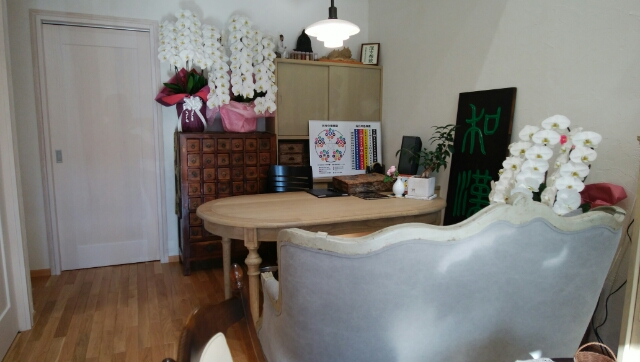
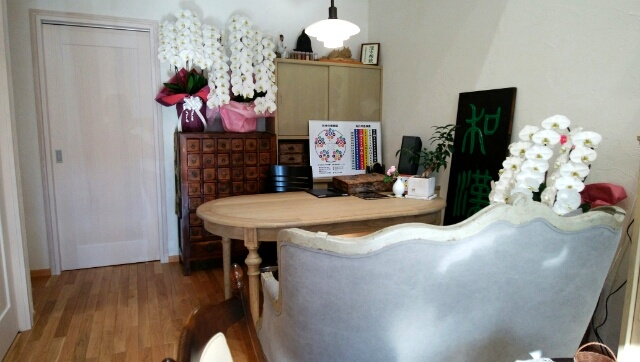
Add files via upload

diff --git a/access.html b/access.html
@@ -4,13 +4,13 @@
 <meta charset="utf-8">
 <meta name="viewport" content="width=device-width,initial-scale=1">
 <title>店舗・アクセス｜クローバー薬房 秋田市中通</title>
-<meta name="description" content="クローバー薬房は秋田県秋田市中通4丁目17-31。営業時間は月〜金9:30〜18:30、土9:30〜17:00。日曜・祝日休業、店頭駐車場2台です。">
+<meta name="description" content="クローバー薬房は秋田県秋田市中通4丁目17-31。営業時間は月〜金9:30〜18:30、土9:30〜17:00。日曜・祝日休業、店頭駐車場は最大2台です。">
 <link rel="canonical" href="https://clover-yakubou-akita.github.io/access.html">
 <meta property="og:type" content="website">
 <meta property="og:locale" content="ja_JP">
 <meta property="og:site_name" content="クローバー薬房">
 <meta property="og:title" content="店舗・アクセス｜クローバー薬房 秋田市中通">
-<meta property="og:description" content="クローバー薬房は秋田県秋田市中通4丁目17-31。営業時間は月〜金9:30〜18:30、土9:30〜17:00。日曜・祝日休業、店頭駐車場2台です。">
+<meta property="og:description" content="クローバー薬房は秋田県秋田市中通4丁目17-31。営業時間は月〜金9:30〜18:30、土9:30〜17:00。日曜・祝日休業、店頭駐車場は最大2台です。">
 <meta property="og:url" content="https://clover-yakubou-akita.github.io/access.html">
 <meta property="og:image" content="https://clover-yakubou-akita.github.io/storefront.jpg">
 
@@ -20,7 +20,7 @@
 <body>
 <header>
   <div class="container nav">
-    <a class="brand" href="index.html"><img src="logo-brush.jpg" alt="クローバー薬房 ロゴ"><span>秋田市の漢方相談薬局</span></a>
+    <a class="brand" href="index.html"><img src="logo-brush.jpg" alt="クローバー薬房 ロゴ"><span>秋田の漢方相談薬局</span></a>
     <nav>
       <a href="first.html">初めての方へ</a>
       <a href="consultation.html">漢方相談</a>
@@ -42,7 +42,7 @@
       <tr><th>電話</th><td><a href="tel:0188333211">018-833-3211</a></td></tr>
       <tr><th>営業時間</th><td>月〜金 9:30〜18:30<br>土 9:30〜17:00</td></tr>
       <tr><th>定休日</th><td>日曜・祝日</td></tr>
-      <tr><th>駐車場</th><td>店頭2台</td></tr>
+      <tr><th>駐車場</th><td>店頭最大2台</td></tr>
       <tr><th>漢方相談</th><td>予約優先</td></tr>
     </table>
     <div class="button-row"><a class="btn" target="_blank" rel="noopener" href="https://www.google.com/maps/search/?api=1&query=%E7%A7%8B%E7%94%B0%E7%9C%8C%E7%A7%8B%E7%94%B0%E5%B8%82%E4%B8%AD%E9%80%9A4%E4%B8%81%E7%9B%AE17-31">Googleマップで見る</a><a class="btn secondary" href="mailto:cloveryakubou@ace.ocn.ne.jp">メールで問い合わせる</a></div>

diff --git a/index.html b/index.html
@@ -40,7 +40,7 @@
       <p class="flyer-lead">冷え・疲れ・眠り・胃腸・便秘・がん・女性特有のお悩みなど、どうぞお気軽にお聞かせください。</p>
       <div class="flyer-grid">
         <div class="flyer-box"><strong>予約優先</strong><span>じっくりご相談いただけます</span></div>
-        <div class="flyer-box"><strong>駐車場</strong><span>店頭2台</span></div>
+        <div class="flyer-box"><strong>駐車場</strong><span>店頭最大2台</span></div>
         <div class="flyer-box"><strong>営業時間</strong><span>月〜金 9:30〜18:30 / 土 9:30〜17:00</span></div>
         <div class="flyer-box"><strong>定休日</strong><span>日曜・祝日</span></div>
       </div>
@@ -76,7 +76,7 @@
     <div class="keylist">
       <div class="keyitem"><strong>営業時間</strong><span>月〜金 9:30〜18:30<br>土 9:30〜17:00</span></div>
       <div class="keyitem"><strong>定休日</strong><span>日曜・祝日</span></div>
-      <div class="keyitem"><strong>駐車場</strong><span>店頭2台</span></div>
+      <div class="keyitem"><strong>駐車場</strong><span>店頭最大2台</span></div>
       <div class="keyitem"><strong>メール</strong><span><a href="mailto:cloveryakubou@ace.ocn.ne.jp">cloveryakubou@ace.ocn.ne.jp</a></span></div>
       <div class="keyitem instagram-keyitem"><strong>Instagram</strong><span><a class="instagram-entry" href="https://www.instagram.com/cloveryakubou/" target="_blank" rel="noopener"><svg class="instagram-icon" viewBox="0 0 24 24" aria-hidden="true"><rect x="3" y="3" width="18" height="18" rx="5" ry="5" fill="none" stroke="currentColor" stroke-width="2"/><circle cx="12" cy="12" r="4.2" fill="none" stroke="currentColor" stroke-width="2"/><circle cx="17.4" cy="6.7" r="1.2" fill="currentColor"/></svg><span>@cloveryakubou</span></a></span></div>
     </div>

diff --git a/faq.html b/faq.html
@@ -20,7 +20,7 @@
 
 <header>
   <div class="container nav">
-    <a class="brand" href="index.html"><img src="logo-brush.jpg" alt="クローバー薬房 ロゴ"><span>秋田市の漢方相談薬局</span></a>
+    <a class="brand" href="index.html"><img src="logo-brush.jpg" alt="クローバー薬房 ロゴ"><span>秋田の漢方相談薬局</span></a>
     <nav>
       <a href="first.html">初めての方へ</a>
       <a href="consultation.html">漢方相談</a>
@@ -52,7 +52,7 @@
 <details><summary>漢方薬と自然薬について相談できますか？</summary><p>はい。現在の状態や体質、生活習慣などを伺いながら、お一人おひとりに合った漢方薬・自然薬について一緒に考えていきます。</p></details>
 <details><summary>季節によって体調が変わる場合も相談できますか？</summary><p>はい。季節の変化と体調の関係についても、日々の過ごし方や生活の様子を伺いながら考えます。</p></details>
 <details><summary>営業時間と定休日を教えてください。</summary><p>営業時間は月〜金 9:30〜18:30、土 9:30〜17:00です。定休日は日曜・祝日です。</p></details>
-<details><summary>駐車場はありますか？</summary><p>はい。店頭に2台分ございます。</p></details>
+<details><summary>駐車場はありますか？</summary><p>はい。はい。店頭に最大2台分ございます。</p></details>
 </div></section></main>
 
 
@@ -191,7 +191,7 @@
       "name": "駐車場はありますか？",
       "acceptedAnswer": {
         "@type": "Answer",
-        "text": "はい。店頭に2台分ございます。"
+        "text": "はい。はい。店頭に最大2台分ございます。"
       }
     }
   ]

diff --git a/style-v11.css b/style-v11.css
@@ -646,3 +646,51 @@ body{
   .sleep-sticky-cta{position:fixed;left:0;right:0;bottom:0;z-index:70;display:grid;grid-template-columns:1fr 1fr;background:#fff;box-shadow:0 -10px 28px rgba(49,67,55,.14);padding:9px 10px calc(9px + env(safe-area-inset-bottom))}.sleep-sticky-cta a{display:flex;align-items:center;justify-content:center;padding:11px 8px;font-size:.87rem;font-weight:900;color:#3f614e}.sleep-sticky-cta .sticky-reserve{background:#49685b;color:#fff;border-radius:999px}
   .sleep-stress-flow{justify-content:center}.sleep-stress-flow b{display:none}
 }
+
+
+/* v23: constitution page mobile overlap visual refinement */
+@media(max-width:700px){
+  .overlap-panel{
+    gap:22px;
+  }
+  .overlap-visual{
+    min-height:290px;
+    max-width:320px;
+    width:100%;
+    margin:8px auto 0;
+  }
+  .overlap-visual span,
+  .overlap-visual strong{
+    display:flex;
+    align-items:center;
+    justify-content:center;
+    text-align:center;
+  }
+  .overlap-visual span{
+    width:124px;
+    height:124px;
+    font-size:1rem;
+    line-height:1.25;
+  }
+  .overlap-visual span:nth-child(1){
+    left:6px;
+    top:4px;
+  }
+  .overlap-visual span:nth-child(2){
+    right:6px;
+    top:14px;
+  }
+  .overlap-visual span:nth-child(3){
+    left:50%;
+    bottom:2px;
+    transform:translateX(-50%);
+  }
+  .overlap-visual strong{
+    width:88px;
+    height:88px;
+    left:50%;
+    top:52%;
+    transform:translate(-50%,-50%);
+    font-size:1.02rem;
+  }
+}

diff --git a/kidney.html b/kidney.html
@@ -18,7 +18,7 @@
 <body class="kidney-page">
 <header>
   <div class="container nav">
-    <a class="brand" href="index.html"><img src="logo-brush.jpg" alt="クローバー薬房 ロゴ"><span class="brand-copy"><span class="brand-main">秋田市の漢方相談薬局</span><span class="brand-heritage">創業50年余</span></span></a>
+    <a class="brand" href="index.html"><img src="logo-brush.jpg" alt="クローバー薬房 ロゴ"><span class="brand-copy"><span class="brand-main">秋田の漢方相談薬局</span><span class="brand-heritage">創業50年余</span></span></a>
     <nav>
       <a href="first.html">初めての方へ</a>
       <a href="consultation.html">漢方相談</a>

diff --git a/sleep.html b/sleep.html
@@ -18,7 +18,7 @@
 <body class="sleep-page">
 <header>
   <div class="container nav">
-    <a class="brand" href="index.html"><img src="logo-brush.jpg" alt="クローバー薬房 ロゴ"><span class="brand-copy"><span class="brand-main">秋田市の漢方相談薬局</span><span class="brand-heritage">創業50年余</span></span></a>
+    <a class="brand" href="index.html"><img src="logo-brush.jpg" alt="クローバー薬房 ロゴ"><span class="brand-copy"><span class="brand-main">秋田の漢方相談薬局</span><span class="brand-heritage">創業50年余</span></span></a>
     <nav>
       <a href="first.html">初めての方へ</a>
       <a href="consultation.html">漢方相談</a>

diff --git a/eye.html b/eye.html
@@ -78,7 +78,7 @@
 <body class="eye-lp">
 <header>
   <div class="container nav">
-    <a class="brand" href="index.html"><img src="logo-brush.jpg" alt="クローバー薬房 ロゴ"><span class="brand-copy"><span class="brand-main">秋田市の漢方相談薬局</span><span class="brand-heritage">創業50年余</span></span></a>
+    <a class="brand" href="index.html"><img src="logo-brush.jpg" alt="クローバー薬房 ロゴ"><span class="brand-copy"><span class="brand-main">秋田の漢方相談薬局</span><span class="brand-heritage">創業50年余</span></span></a>
     <nav>
       <a href="first.html">初めての方へ</a>
       <a href="consultation.html">漢方相談</a>

diff --git a/constitution.html b/constitution.html
@@ -14,7 +14,7 @@
 <body>
 <header>
   <div class="container nav">
-    <a class="brand" href="index.html"><img src="logo-brush.jpg" alt="クローバー薬房 ロゴ"><span class="brand-copy"><span class="brand-main">秋田市の漢方相談薬局</span><span class="brand-heritage">創業50年余</span></span></a>
+    <a class="brand" href="index.html"><img src="logo-brush.jpg" alt="クローバー薬房 ロゴ"><span class="brand-copy"><span class="brand-main">秋田の漢方相談薬局</span><span class="brand-heritage">創業50年余</span></span></a>
     <nav>
       <a href="first.html">初めての方へ</a>
       <a href="consultation.html">漢方相談</a>

diff --git a/kampo-thinking.html b/kampo-thinking.html
@@ -18,7 +18,7 @@
 <body>
 <header>
   <div class="container nav">
-    <a class="brand" href="index.html"><img src="logo-brush.jpg" alt="クローバー薬房 ロゴ"><span class="brand-copy"><span class="brand-main">秋田市の漢方相談薬局</span><span class="brand-heritage">創業50年余</span></span></a>
+    <a class="brand" href="index.html"><img src="logo-brush.jpg" alt="クローバー薬房 ロゴ"><span class="brand-copy"><span class="brand-main">秋田の漢方相談薬局</span><span class="brand-heritage">創業50年余</span></span></a>
     <nav>
       <a href="first.html">初めての方へ</a>
       <a href="consultation.html">漢方相談</a>

diff --git a/reservation.html b/reservation.html
@@ -18,7 +18,7 @@
 <body>
 <header>
   <div class="container nav">
-    <a class="brand" href="index.html"><img src="logo-brush.jpg" alt="クローバー薬房 ロゴ"><span class="brand-copy"><span class="brand-main">秋田市の漢方相談薬局</span><span class="brand-heritage">創業50年余</span></span></a>
+    <a class="brand" href="index.html"><img src="logo-brush.jpg" alt="クローバー薬房 ロゴ"><span class="brand-copy"><span class="brand-main">秋田の漢方相談薬局</span><span class="brand-heritage">創業50年余</span></span></a>
     <nav>
       <a href="first.html">初めての方へ</a>
       <a href="consultation.html">漢方相談</a>

diff --git a/self-check.html b/self-check.html
@@ -14,7 +14,7 @@
 <body>
 <header>
   <div class="container nav">
-    <a class="brand" href="index.html"><img src="logo-brush.jpg" alt="クローバー薬房 ロゴ"><span class="brand-copy"><span class="brand-main">秋田市の漢方相談薬局</span><span class="brand-heritage">創業50年余</span></span></a>
+    <a class="brand" href="index.html"><img src="logo-brush.jpg" alt="クローバー薬房 ロゴ"><span class="brand-copy"><span class="brand-main">秋田の漢方相談薬局</span><span class="brand-heritage">創業50年余</span></span></a>
     <nav>
       <a href="first.html">初めての方へ</a>
       <a href="consultation.html">漢方相談</a>

diff --git a/about.html b/about.html
@@ -20,7 +20,7 @@
 <body>
 <header>
   <div class="container nav">
-    <a class="brand" href="index.html"><img src="logo-brush.jpg" alt="クローバー薬房 ロゴ"><span>秋田市の漢方相談薬局</span></a>
+    <a class="brand" href="index.html"><img src="logo-brush.jpg" alt="クローバー薬房 ロゴ"><span>秋田の漢方相談薬局</span></a>
     <nav>
       <a href="first.html">初めての方へ</a>
       <a href="consultation.html">漢方相談</a>
